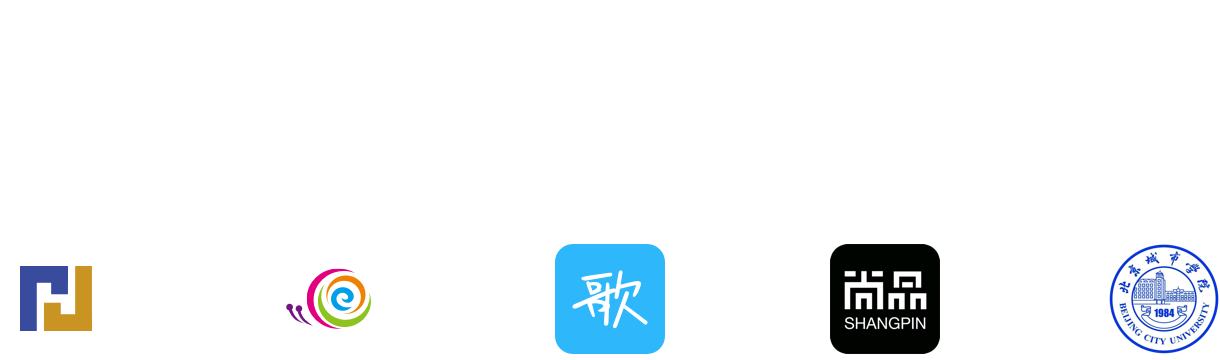
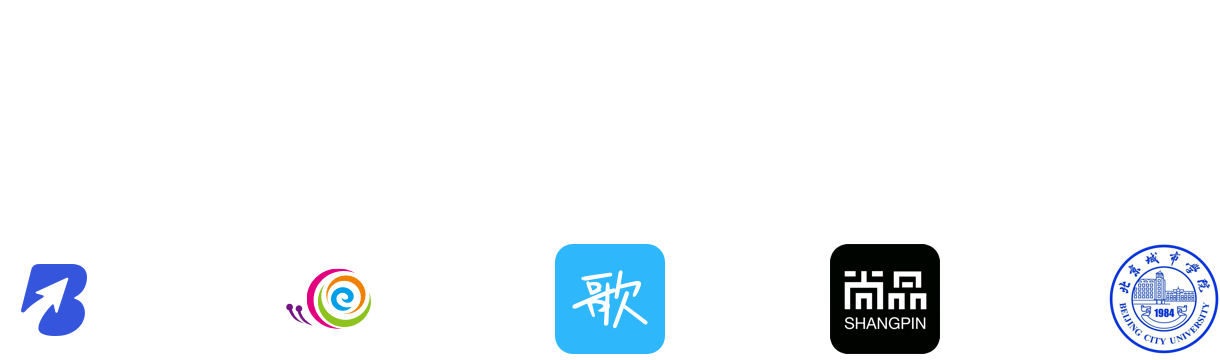
修改

Changed region(s): [[0.0, 0.7333, 0.0934, 0.9472]]

diff --git a/index.html b/index.html
@@ -133,6 +133,38 @@
 		<div class="worksList">
 			<div class="worksItem">
 				<a href="#" class="big-link" data-reveal-id="myModal" data-animation="fade">
+					<img src="image/Bgain.png" width="390" height="280"  alt="">
+					<div class="ItemBox">
+						<div class="wz">
+							<p class="ItemTitle">Bgain App</p>
+							<p class="ItemArticle">Bgain is a professional digital currency <br />
+								asset management platform.
+							</p>
+						</div>
+
+						<p class="prev"><img src="image/prev.png" alt=""></p>
+					</div>
+				</a>
+			</div>
+
+			<div class="worksItem">
+				<a href="#" class="big-link" data-reveal-id="myModal" data-animation="fade">
+					<img src="image/yunyin.png" width="390" height="280"  alt="">
+					<div class="ItemBox">
+						<div class="wz">
+							<p class="ItemTitle">运营活动</p>
+							<p class="ItemArticle">Design of Daily Operational Activities.
+							</p>
+						</div>
+
+						<p class="prev"><img src="image/prev.png" alt=""></p>
+					</div>
+				</a>
+			</div>
+
+
+			<div class="worksItem">
+				<a href="#" class="big-link" data-reveal-id="myModal" data-animation="fade">
 					<img src="image/ss11.png" width="390" height="280"  alt="">
 					<div class="ItemBox">
 						<div class="wz">
@@ -188,46 +220,61 @@
 				</div>
 				</a>
 			</div>
+
 			<div class="worksItem">
 				<a href="#" class="big-link" data-reveal-id="myModal" data-animation="fade">
-				<img src="image/ss4.png" width="390" height="280"  alt="">
-				<div class="ItemBox">
-					<div class="wz">
-						<p class="ItemTitle">HOME</p>
-						<p class="ItemArticle">Home, is a light.<br />
-							No longer afraid of the night without stars.</p>
+					<img src="image/IIIustration.png" width="390" height="280"  alt="">
+					<div class="ItemBox">
+						<div class="wz">
+							<p class="ItemTitle">Vector illustration</p>
+							<p class="ItemArticle">Record the little beautiful life.</p>
+						</div>
+
+						<p class="prev"><img src="image/prev.png" alt=""></p>
 					</div>
-					
-					<p class="prev"><img src="image/prev.png" alt=""></p>
-				</div>
 				</a>
 			</div>
-			<div class="worksItem">
-				<a href="#" class="big-link" data-reveal-id="myModal" data-animation="fade">
-				<img src="image/ss5.png" width="390" height="280"  alt="">
-				<div class="ItemBox">
-					<div class="wz">
-						<p class="ItemTitle">Vector illustration</p>
-						<p class="ItemArticle">Record the little beautiful life.</p>
-					</div>
-					
-					<p class="prev"><img src="image/prev.png" alt=""></p>
-				</div>
-				</a>
-			</div>
-			<div class="worksItem">
-				<a href="#" class="big-link" data-reveal-id="myModal" data-animation="fade">
-				<img src="image/ss6.png" width="390" height="280"  alt="">
-				<div class="ItemBox">
-					<div class="wz">
-						<p class="ItemTitle">Daily practice</p>
-						<p class="ItemArticle">Record daily drips.</p>
-					</div>
-					
-					<p class="prev"><img src="image/prev.png" alt=""></p>
-				</div>
-				</a>
-			</div>
+
+			<!--<div class="worksItem">-->
+				<!--<a href="#" class="big-link" data-reveal-id="myModal" data-animation="fade">-->
+				<!--<img src="image/ss4.png" width="390" height="280"  alt="">-->
+				<!--<div class="ItemBox">-->
+					<!--<div class="wz">-->
+						<!--<p class="ItemTitle">HOME</p>-->
+						<!--<p class="ItemArticle">Home, is a light.<br />-->
+							<!--No longer afraid of the night without stars.</p>-->
+					<!--</div>-->
+					<!---->
+					<!--<p class="prev"><img src="image/prev.png" alt=""></p>-->
+				<!--</div>-->
+				<!--</a>-->
+			<!--</div>-->
+			<!--<div class="worksItem">-->
+				<!--<a href="#" class="big-link" data-reveal-id="myModal" data-animation="fade">-->
+				<!--<img src="image/ss5.png" width="390" height="280"  alt="">-->
+				<!--<div class="ItemBox">-->
+					<!--<div class="wz">-->
+						<!--<p class="ItemTitle">Vector illustration</p>-->
+						<!--<p class="ItemArticle">Record the little beautiful life.</p>-->
+					<!--</div>-->
+					<!---->
+					<!--<p class="prev"><img src="image/prev.png" alt=""></p>-->
+				<!--</div>-->
+				<!--</a>-->
+			<!--</div>-->
+			<!--<div class="worksItem">-->
+				<!--<a href="#" class="big-link" data-reveal-id="myModal" data-animation="fade">-->
+				<!--<img src="image/ss6.png" width="390" height="280"  alt="">-->
+				<!--<div class="ItemBox">-->
+					<!--<div class="wz">-->
+						<!--<p class="ItemTitle">Daily practice</p>-->
+						<!--<p class="ItemArticle">Record daily drips.</p>-->
+					<!--</div>-->
+					<!---->
+					<!--<p class="prev"><img src="image/prev.png" alt=""></p>-->
+				<!--</div>-->
+				<!--</a>-->
+			<!--</div>-->
 			<div class="worksItem">
 				<a href="#" class="big-link" data-reveal-id="myModal" data-animation="fade">
 				<img src="image/ss7.png" width="390" height="280"  alt="">
@@ -343,13 +390,16 @@
 		},2000)
 
 		var imgArr = [
-            ["image/jz1.png","image/jz2.png","image/jz3.png","image/jz4.png","image/jz5.png","image/jz6.png","image/jz7.png","image/jz8.png","image/jz9.png","image/jz10.png"],
+		    ["image/Bgain1.png","image/Bgain2.png","image/Bgain3.png","image/Bgain4.png","image/Bgain5.png","image/Bgain6.png","image/Bgain7.png","image/Bgain8.png","image/Bgain9.png","image/Bgain10.png","image/Bgain11.png","image/Bgain12.png"],
+			["image/gd1.png","image/gd2.png","image/gd3.png","image/gd4.png","image/gd5.png","image/gd6.png"],
+            ["image/jz1.png","image/jz2.png","image/jz3.png","image/jz4.png","image/jz5.png","image/jz6.png","image/jz7.png","image/jz8.png","image/jz9.png","image/jz10.png","image/jz11.png"],
 			['image/db1.png','image/db2.png','image/db3.png','image/db4.png','image/db5.png','image/db6.png','image/db7.png','image/db8.png','image/db9.png','image/db10.png','image/db11.png','image/db12.png','image/db13.png'],
 			['image/dp1.png','image/dp2.png','image/dp3.png','image/dp4.png','image/dp5.png','image/dp6.png','image/dp7.png','image/dp8.png','image/dp9.png','image/dp10.png'],
 			['image/k1.png','image/k2.png','image/k3.png','image/k4.png','image/k5.png','image/k6.png','image/k7.png','image/k8.png'],
-			['image/home1.png','image/home2.png','image/home3.png','image/home4.png','image/home5.png','image/home6.png'],
-			['image/1.png','image/2.png','image/3.png','image/4.png','image/5.png'],
-			['image/d1.png','image/d2.png','image/d3.png','image/d4.png','image/d5.png','image/d6.png'],
+			["image/IIIustration1.png","image/IIIustration2.png","image/IIIustration3.png","image/IIIustration4.png","image/IIIustration5.png","image/IIIustration6.png","image/IIIustration7.png","image/IIIustration8.png","image/IIIustration9.png","image/IIIustration10.png","image/IIIustration11.png","image/IIIustration12.png","image/IIIustration13.png","image/IIIustration14.png"],
+			//['image/home1.png','image/home2.png','image/home3.png','image/home4.png','image/home5.png','image/home6.png'],
+			//['image/1.png','image/2.png','image/3.png','image/4.png','image/5.png'],
+			//['image/d1.png','image/d2.png','image/d3.png','image/d4.png','image/d5.png','image/d6.png'],
 			['image/m1.png','image/m2.png','image/m3.png','image/m4.png','image/m5.png','image/m6.png','image/m7.png','image/m8.png'],
 			['image/v1.png','image/v2.png','image/v3.png','image/v4.png','image/v5.png','image/v6.png','image/v7.png','image/v8.png','image/v9.png','image/v10.png','image/v11.png','image/v12.png',],
 			['image/tv1.png','image/tv2.png','image/tv3.png','image/tv4.png','image/tv5.png','image/tv6.png','image/tv7.png'],
